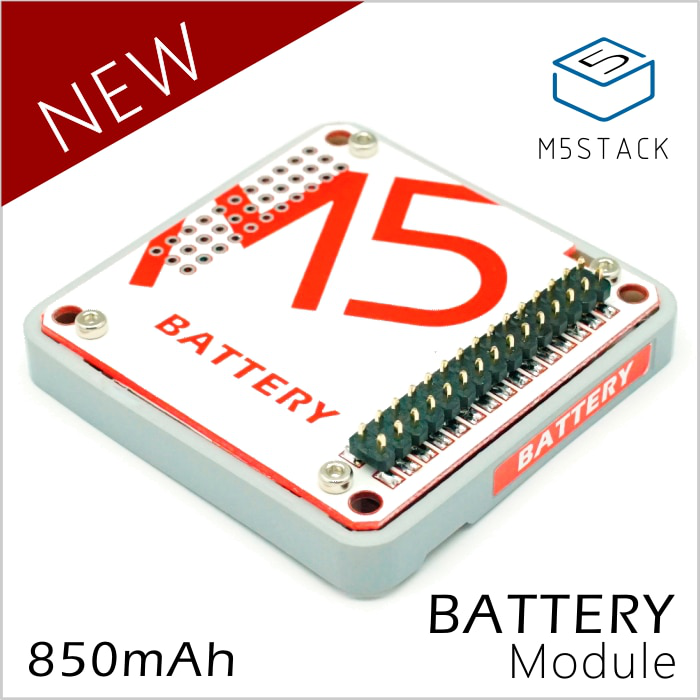
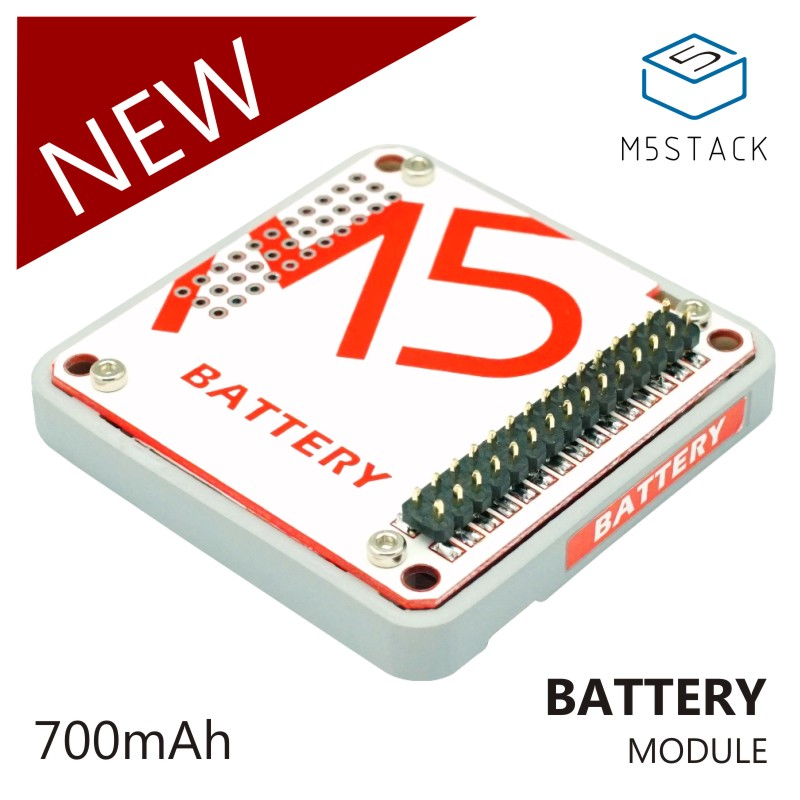
update docs

diff --git a/docs/ja/module/battery.md b/docs/ja/module/battery.md
@@ -4,11 +4,11 @@
 
 ***
 
-:memo:**[概要](#概要)**&nbsp;&nbsp;&nbsp;&nbsp;&nbsp;&nbsp;🛒**[購入リンク](https://www.aliexpress.com/store/product/M5Stack-Official-In-Stock-Battery-Module-for-Arduino-ESP32-Core-Development-Kit-Capacity-850mAh-Stackable-IoT/3226069_32839688875.html?spm=2114.12010610.8148356.8.7b26c4a1uVFob3.html)**
+:memo:**[概要](#概要)**&nbsp;&nbsp;&nbsp;&nbsp;&nbsp;&nbsp;🛒**[購入リンク](https://www.aliexpress.com/store/product/M5Stack-Official-In-Stock-Battery-Module-for-Arduino-ESP32-Core-Development-Kit-Capacity-700mAh-Stackable-IoT/3226069_32839688875.html)**
 
 ## 概要
 
-**<mark>BATTERY</mark>**モジュールは**850mAh**の大容量バッテリを内蔵しています。
+**<mark>BATTERY</mark>**モジュールは**700mAh**の大容量バッテリを内蔵しています。
 
 これによりM5Stack単独で動作するポータブルデバイスを開発する事が可能です。
 
@@ -16,7 +16,7 @@
 
 ## 特徴
 
-- 850mAh 大容量バッテリ
+- 700mAh 大容量バッテリ
 
 ## パッケージ内容
 

diff --git a/docs/en/module/battery.md b/docs/en/module/battery.md
@@ -4,11 +4,11 @@
 
 ***
 
-:memo:**[Description](#Description)**&nbsp;&nbsp;&nbsp;&nbsp;&nbsp;&nbsp;🛒**[Purchase](https://www.aliexpress.com/store/product/M5Stack-Official-In-Stock-Battery-Module-for-Arduino-ESP32-Core-Development-Kit-Capacity-850mAh-Stackable-IoT/3226069_32839688875.html?spm=2114.12010610.8148356.8.7b26c4a1uVFob3.html)**
+:memo:**[Description](#Description)**&nbsp;&nbsp;&nbsp;&nbsp;&nbsp;&nbsp;🛒**[Purchase](https://www.aliexpress.com/store/product/M5Stack-Official-In-Stock-Battery-Module-for-Arduino-ESP32-Core-Development-Kit-Capacity-700mAh-Stackable-IoT/3226069_32839688875.html)**
 
 # Description
 
-<mark>BATTERY</mark> is a module with 850mAh High-Capacity Battery.
+<mark>BATTERY</mark> is a module with 700mAh High-Capacity Battery.
 User can create a portble device with any series of M5Stack Core and
 M5Stack BATTERY Module easily.
 
@@ -16,7 +16,7 @@ M5Stack BATTERY Module easily.
 
 # Feature
 
--  850mAh High-Capacity Battery
+-  700mAh High-Capacity Battery
 
 # Include
 

diff --git a/docs/zh_CN/module/battery.md b/docs/zh_CN/module/battery.md
@@ -10,13 +10,13 @@
 
 # 描述
 
-BATTERY模块是一款**850mAh**的高容量电池模块。当M5Core堆叠了这个电池模块之后，可以做成移动的设备，不再需要USB线一直供电。
+BATTERY模块是一款**700mAh**的高容量电池模块。当M5Core堆叠了这个电池模块之后，可以做成移动的设备，不再需要USB线一直供电。
 
 !> 注意：不要一起用这个电池模块和其他的电池，因为有火灾的恐惧。
 
 # 特性
 
--  850mAh容量
+-  700mAh容量
 
 # 包括
 

diff --git a/docs/ja/case.md b/docs/ja/case.md
@@ -217,6 +217,9 @@
 - [USB HOST Module for M5STACK](https://macsbug.wordpress.com/2018/10/31/usb-host-module-for-m5stack/)
   - USB Host module for M5Stack
 
+- [ETERNAL_STRIKER](http://www.team-rh.com/?p=232)
+  - Shooting game for M5Stack
+
 ## Web site
 
 ### Espressif 公式

diff --git a/docs/en/case.md b/docs/en/case.md
@@ -146,6 +146,8 @@
 
 * [USB HOST Module for M5STACK](https://macsbug.wordpress.com/2018/10/31/usb-host-module-for-m5stack/) - USB Host module for M5Stack
 
+* [ETERNAL_STRIKER](http://www.team-rh.com/?p=232) - Shooting game for M5Stack
+
 ## Web site
 
 ### Espressif

diff --git a/docs/zh_CN/case.md b/docs/zh_CN/case.md
@@ -144,6 +144,8 @@
 
 * [USB HOST Module for M5STACK](https://macsbug.wordpress.com/2018/10/31/usb-host-module-for-m5stack/) - USB Host module for M5Stack
 
+* [ETERNAL_STRIKER](http://www.team-rh.com/?p=232) - Shooting game for M5Stack
+
 ## Web site
 
 ### Espressif
